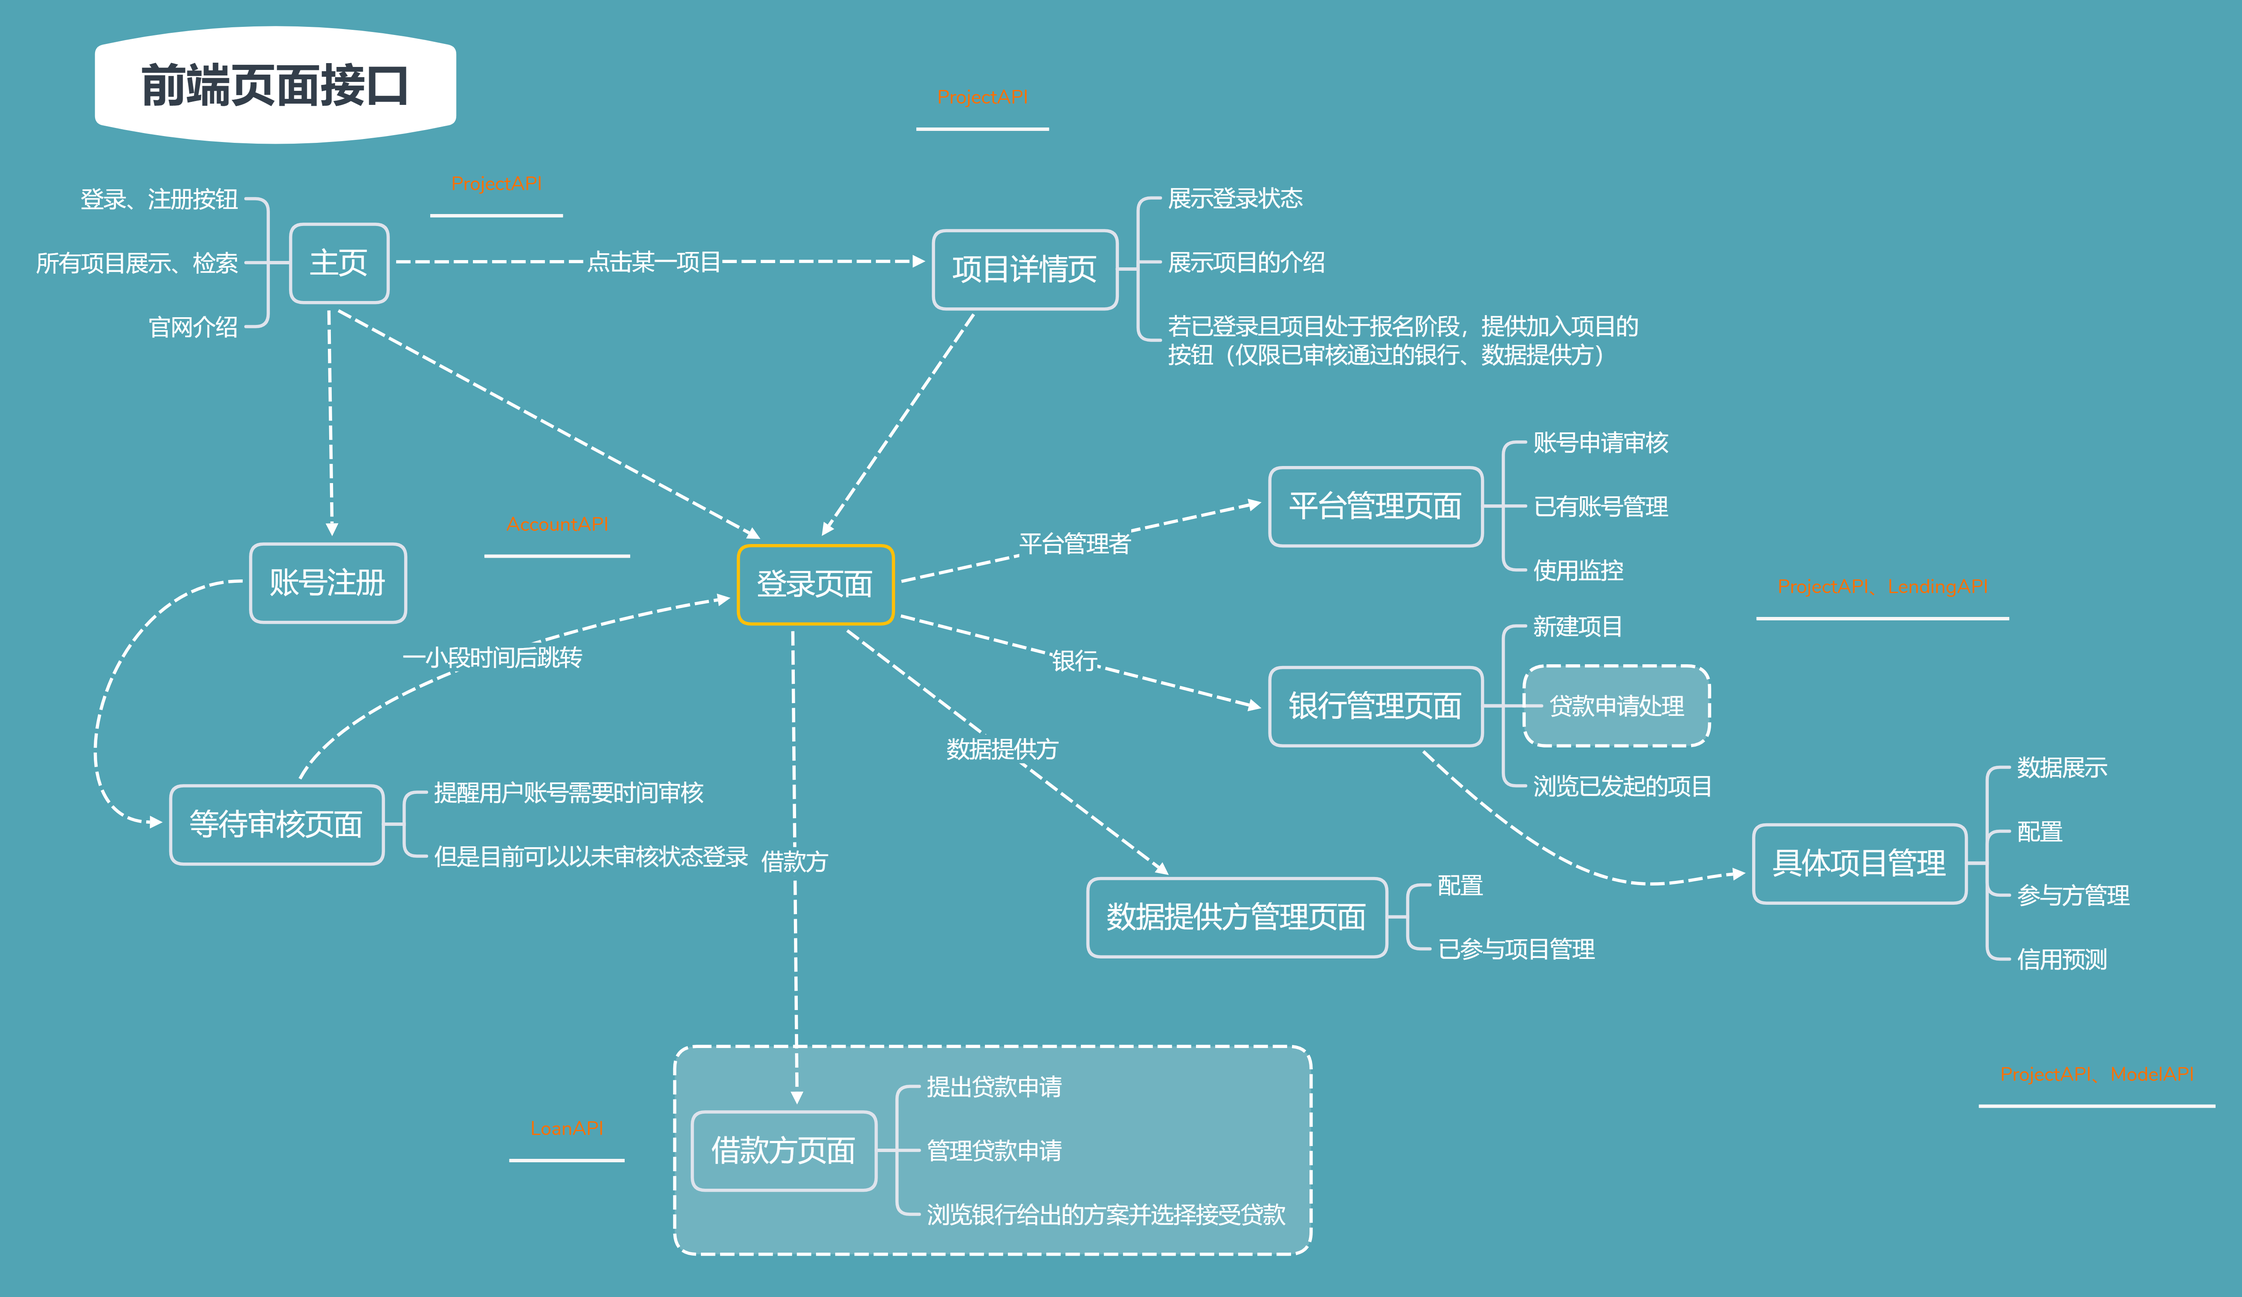
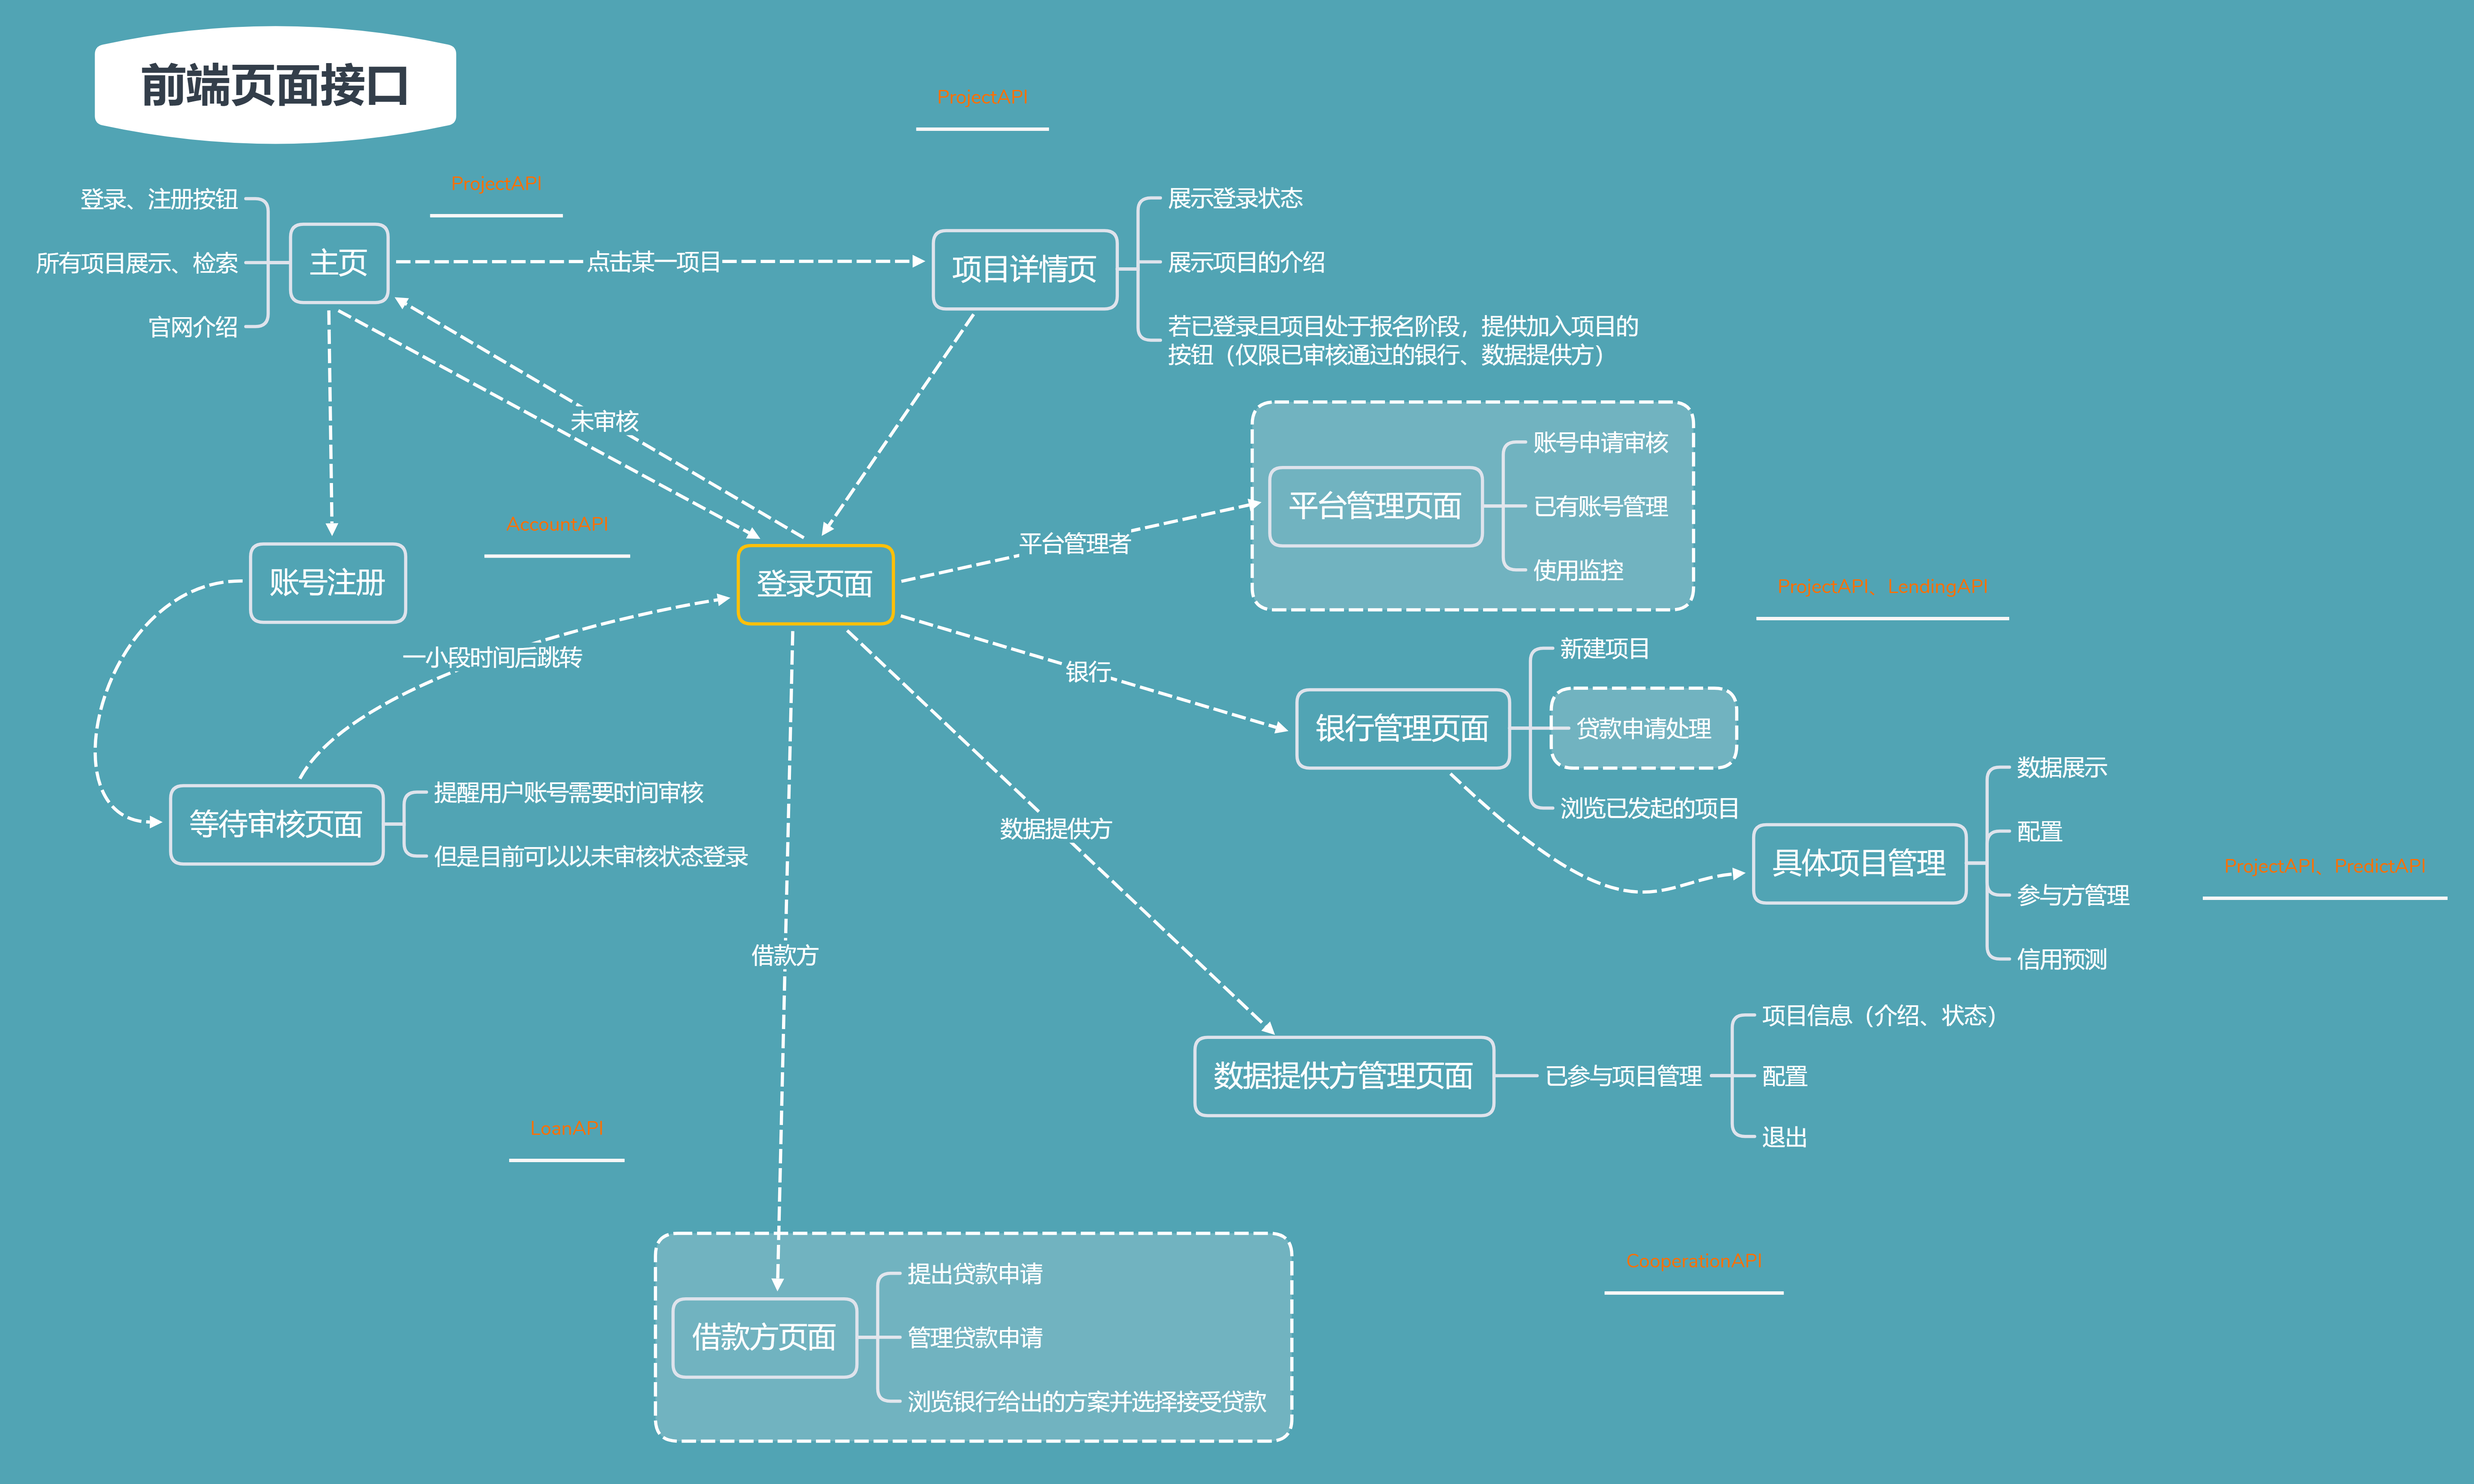
详情页文档示例

diff --git a/Program/front_end/src/store/modules/user.js b/Program/front_end/src/store/modules/user.js
@@ -66,8 +66,17 @@ const user = {
                 if(res.role == "Cooperation"){
                     router.push('/cooperator')
                 }
+                else if (res.role == "Bank"){
+                    router.push('/bank')
+                }
+                else if (res.role == 'loaner'){
+                    router.push('/loaner')
+                }
+                else if (res.role == 'manager') {
+                    router.push('/manager')
+                }
                 else{
-                    router.push('/NJUFINCLAW')
+                    router.push('/')
                 }
             }
         },

diff --git a/Program/front_end/src/views/detail.vue b/Program/front_end/src/views/detail.vue
@@ -1,7 +1,12 @@
 <template>
   <a-layout>
-    <Header></Header>
-  <div>detail</div>
+    <a-layout-header>
+      <Header></Header>
+    </a-layout-header>
+    <a-layout-content>
+      
+    </a-layout-content>
+  
   </a-layout>
   
 </template>

diff --git a/Document/花旗餐饮行业信用训练项目介绍.md b/Document/花旗餐饮行业信用训练项目介绍.md
@@ -1,0 +1,39 @@
+# 花旗餐饮行业信用训练项目
+
+
+
+|  发起方  | 发起时间 | 目前参与组织数 |  状态  |
+| :------: | :------: | :------------: | :----: |
+| 花旗银行 | 2021/2/9 |      240       | 待训练 |
+
+## 介绍
+
+### 花旗银行
+
+<img src="https://online.citi.com/GFC/branding/img/redesigned/citilogoredesign.png" style="zoom:150%;" />
+
+花旗银行是花旗集团旗下的一家零售银行，其主要前身是1812年6月16日成立的“纽约城市银行”，经过近两个世纪的发展、并购，已经成为美国最大的银行之一，也是一家在全球近一百五十个国家及地区设有分支机构的国际大银行。
+
+### 餐饮行业
+
+![](https://img3.qianzhan.com/news/202101/28/20210128-1f043cd86f07c5f8.png)
+
+根据国家统计局数据显示，近年来，中国餐饮业市场规模持续壮大，2011年突破2万亿，2015年突破3万亿，2018年更是突破4万亿，达到4.27万亿，占国民经济产值的4.7%。2019年餐饮行业收入为4.7万亿，同比增长9.4%。尽管近年来增速有所下滑，2019年为9.4%，但仍远高于GDP增速。受疫情影响，2020年我国餐饮行业收入有所下降，为3.95万亿元，同比下降16.6%
+
+因此为帮助小微企业度过此次疫情危机，开展餐饮行业信用训练项目为后续花旗银行对餐饮行业提供贷款帮助有着至关重要的作用。
+
+### 对于借贷者
+
+花旗银行的餐饮信用贷是花旗银行为广大中小微餐饮企业提供的线上流动资金贷款服务。企业从申请至提款全部在线完成，无需抵质押，额度立等可见，资金分钟到账，按日计息，随借随还，以科技金融为中小微企业提供高效编写的融资服务
+
+<img src="D:\github\finclaw-nju\finclaw\Document\花旗餐饮行业信用训练项目介绍.assets\qrcode01.png" alt="qrcode01" style="zoom:33%;" />
+
+![image-20210209201101338](D:\github\finclaw-nju\finclaw\Document\花旗餐饮行业信用训练项目介绍.assets\image-20210209201101338.png)
+
+### 声明
+
+>- 花旗银行（中国）有限公司的各分支行作为保险公司之保险兼业务代理只限于代理销售保险产品，保险产品由保险公司发行与管理。花旗银行（中国）有限公司及其各分支行概不负责有关保险产品的投资、对付、风险管理、承保、退保及保险理赔等事宜或对此承担任何责任
+>- 保险公司为保险产品的承包人，全面负责一切保险及理赔等相关事宜。本材料中设计的保险产品具体特征及条款以保险公司出具的保单条款及保险合同为准
+>- 保险产品由保险公司全权负责，并非银行存款，且花旗银行（中国）有限公司、花旗集团或任何其关联公司或子公司不对保险产品承担任何保证责任
+>- 前述所提及的带*号的增值服务由保险公司或第三方负责提供并承担责任，以其届时实际提供的具体活动内容为准。
+>- 中英文如有歧义，应以中文为准。
